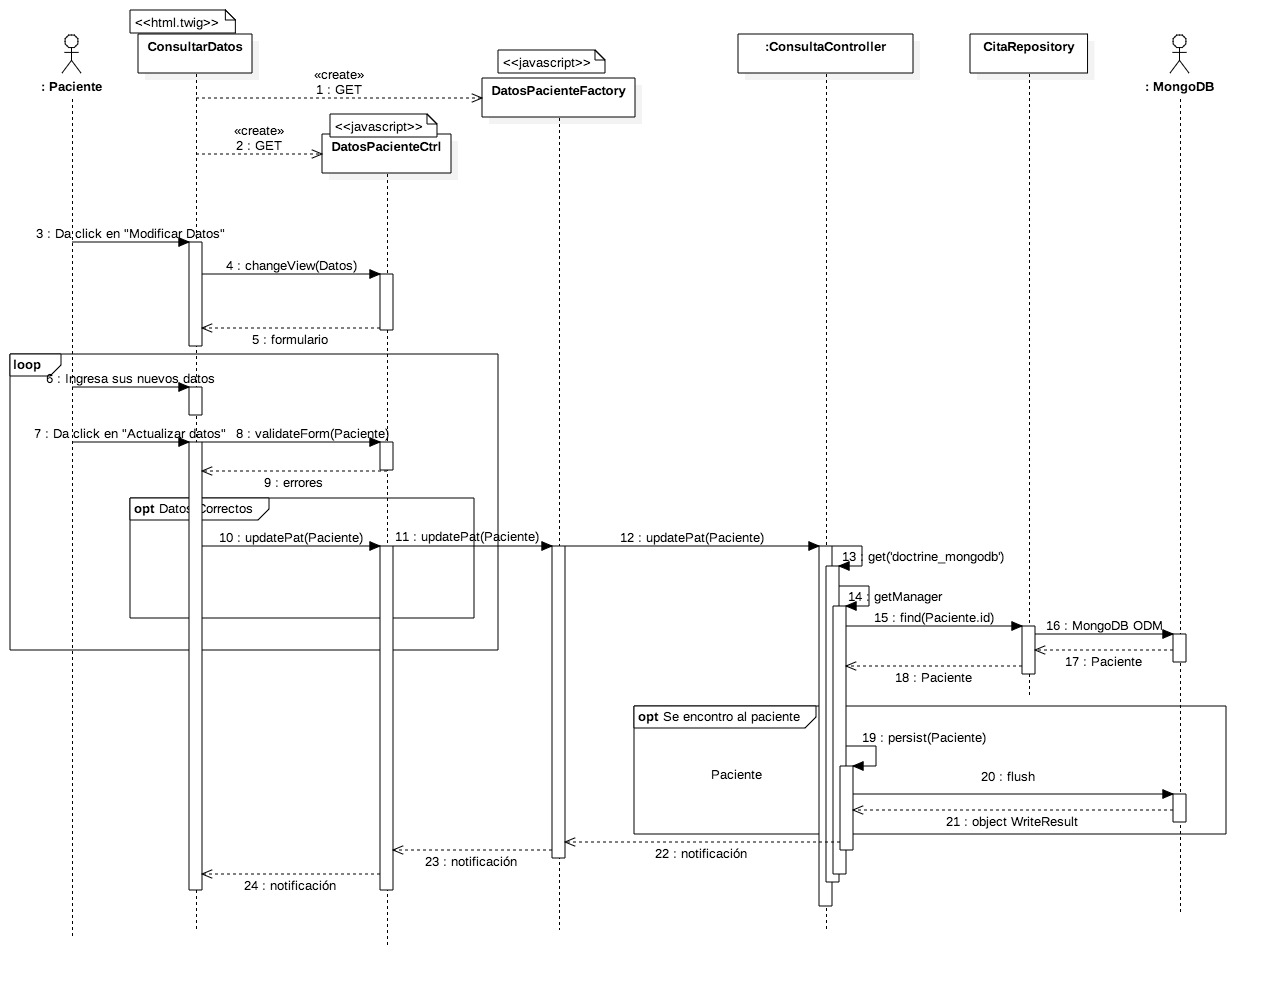
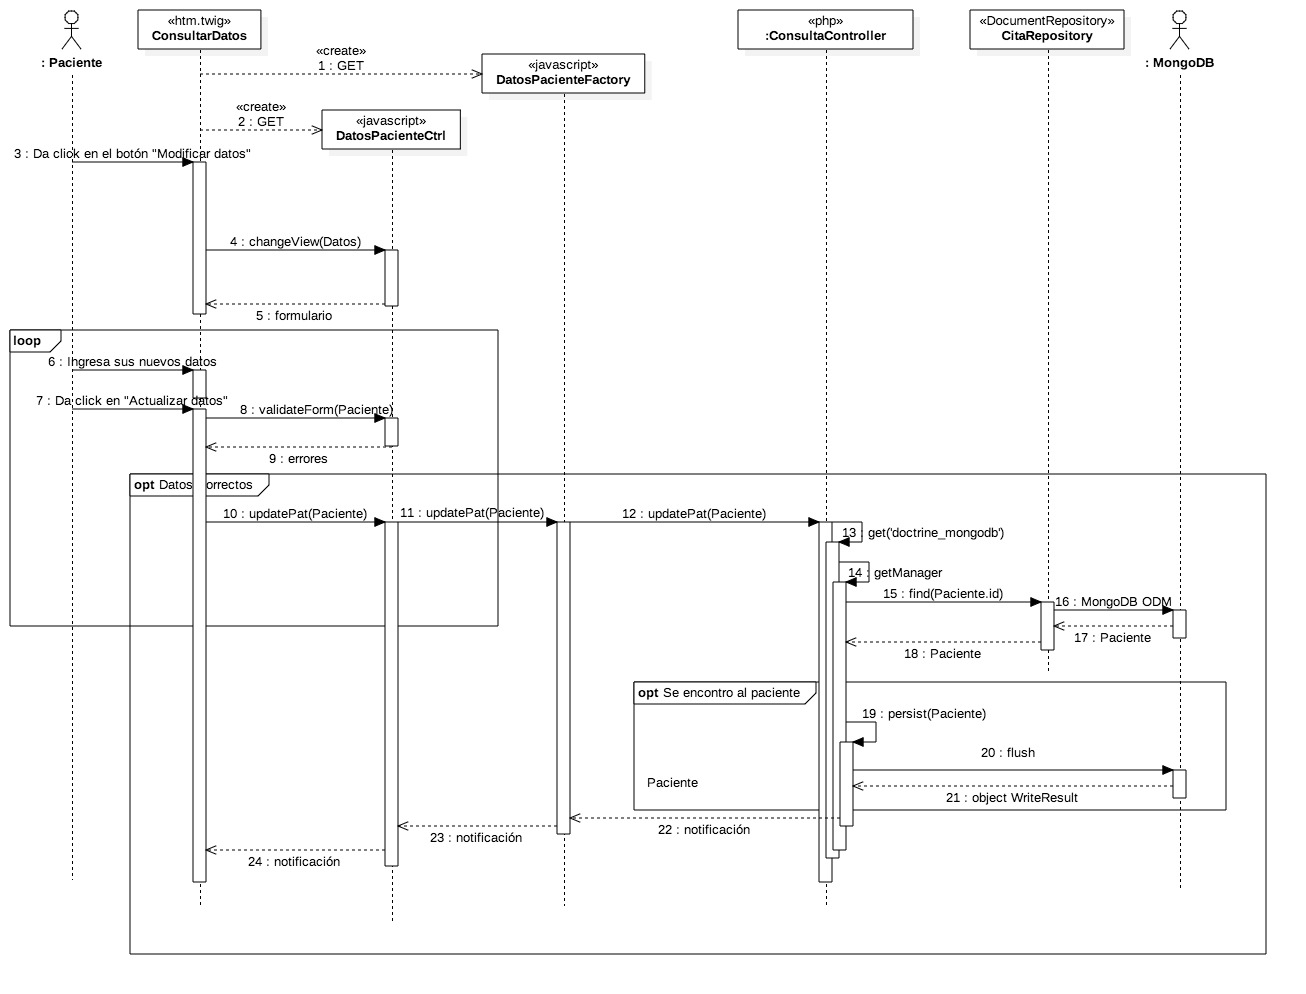
Se corrigen diagramas de secuencia y codigo para que coincidan

diff --git a/web/js/app/paciente/cita/services/factories.js b/web/js/app/paciente/cita/services/factories.js
@@ -1,28 +1,9 @@
 app.
     /**
-     * Factory para tener el resource de los productos
+     * Factory para tener el resource de los citas
      * @param {type} $resource
      * @returns {undefined}
      */
-        factory('AgendarPacienteFactory', function($resource){
-        var urlCitas  = Routing.generate('api_get_paciente_citas');
-        var urlDoc  = decodeURIComponent(Routing.generate('api_get_medico_nombre', { fecha : ":fecha" , consultorio : ":consultorio"}));
-
-        return $resource(urlCitas, null, {
-            getCitas  : {
-                method  : 'GET',
-                isArray : true,
-                url     : urlCitas
-            },
-            getDoctor  : {
-                method  : 'GET',
-                isArray : true,
-                params  : { fecha : '@fecha', consultorio : '@consultorio' },
-                url     : urlDoc
-            }
-
-        });
-    }).
     factory('AgendarPacienteFactory', function($resource){
         var urlCitas  = Routing.generate('api_get_paciente_citas');
         var urlDoc  = decodeURIComponent(Routing.generate('api_get_medico_nombre', { fecha : ":fecha" , consultorio : ":consultorio"}));

diff --git a/web/js/app/paciente/cita/controllers/consultar.js b/web/js/app/paciente/cita/controllers/consultar.js
@@ -9,9 +9,9 @@ app.
      */
     controller('ConsultarCitaCtrl', function($scope,$log, $http, $modal, $filter, $rootScope, ConsultarCitaFactory) {
 
-        $scope.cancelDate = function( cita ){
+        $scope.cancelDate = function( idCita ){
             //alert(cita);
-            ConsultarCitaFactory.cancelDate({ id: cita }, function(result){
+            ConsultarCitaFactory.cancelDate({ id: idCita }, function(result){
                 alert(result.mensaje);
                 location.reload();
             });

diff --git a/documento_disenio/lineamientoDisenio/lineamientoDisenio.tex b/documento_disenio/lineamientoDisenio/lineamientoDisenio.tex
@@ -45,14 +45,14 @@
 
 				\begin{figure}[htbp!]
 		\centering
-			\includegraphics[width=1\textwidth]{images/ejemploCodigo1}
+			\includegraphics[width=.8\textwidth]{images/ejemploCodigo1}
 		\caption{Ejemplo de código 1}
 	\end{figure}
 				
 
 				\begin{figure}[htbp!]
 		\centering
-			\includegraphics[width=1\textwidth]{images/ejemploCodigo2}
+			\includegraphics[width=.8\textwidth]{images/ejemploCodigo2}
 		\caption{Ejemplo de código 2}
 	\end{figure}
 				
@@ -61,28 +61,28 @@
 \begin{itemize}
 \item Definidos en src/AppBundle/Controller
 
-\item Se deben crear por actor dentro de una carpeta Actor/ y el nombre del archivo debe tener la terminación Controller
+\item Se deben crear por actor dentro de una carpeta Actor/ y/o Modulo/ y el nombre del archivo debe tener la terminación Controller
 
 \end{itemize}
 \subsection{Documentos}
 \begin{itemize}
 \item Definidos en src/AppBundle/Document
 
-\item Se deben crear por actor dentro de una carpeta Actor/ 
+\item Se deben crear por actor y/o módulo dentro de una carpeta Actor/ o  Modulo/
 
 \end{itemize}
 \subsection{Repositorios}
 \begin{itemize}
 \item Definidos en src/AppBundle/Repository
 
-\item Se deben crear por actor dentro de una carpeta Actor/ y el nombre del archivo debe tener la terminación Repository
+\item Se deben crear por actor dentro de una carpeta Actor/ y/o Modulo/ y el nombre del archivo debe tener la terminación Repository
 
 \end{itemize}
 \subsection{Formularios}
 \begin{itemize}
 \item Definidos en src/AppBundle/Form/Type/
 
-\item Se deben crear por actor dentro de una carpeta Actor/ y el nombre del archivo debe tener la terminación Type
+\item Se deben crear por actor y/o módulo dentro de una carpeta Actor/ ó Modulo/ y el nombre del archivo debe tener la terminación Type
 
 \end{itemize}
 
@@ -108,13 +108,13 @@ La estructura de las carpetas para almacenar el código angular por módulo debe
 
 	\item Por la estructura de la carpeta, no es necesario que los nombres de los archivos tengan terminaciones Controller, Filter, Directive o Factory.
 
-	\item El nombre de los factories debe de declararse en inglés, ser lo más corto posible y usar UperCamelCase.
+	\item El nombre de los factories debe ser lo más corto posible y usar UperCamelCase.
 
 	\item Bajo ninguna circunstancia se usarán selectores de jQuery dentro de controles o providers.
 
 	\item Si se requieren utilizar funciones de jQuery se deberá crear un directiva.
 
-	\item Los nombres de las directivas deben de declararse en inglés, ser lo más corto posible y usar lowerCamelCase.
+	\item Los nombres de las directivas deben ser lo más corto posible y usar lowerCamelCase.
 
 	\item Cada control, directiva, servicio y filtro, así como las funciones se deben de comentar, indicando el uso de la función y los parámetros que necesita, en caso de ser necesarios.
 
@@ -125,9 +125,9 @@ La estructura de las carpetas para almacenar el código angular por módulo debe
 \begin{itemize}
 \item Toda variable debe de ser declarada y de ser necesario inicializada, seguir la convención para javascript var myVar; y var myVar=1;
 
-\item Los nombres de las variables deben de declararse en inglés, ser lo más corto posible, ser lo más descriptivas posibles y usar lowerCamelCase.
+\item Los nombres de las variables deben ser lo más corto posible, ser lo más descriptivas posibles y usar lowerCamelCase.
 
-\item Todo el código javascript debe estar separado en un archivo dentro de la carpeta web/js
+\item Todo el código javascript debe estar separado en un archivo por modulo dentro de la carpeta web/js
 
 \end{itemize}
 

diff --git a/documento_disenio/Introduccion/Introduccion.tex b/documento_disenio/Introduccion/Introduccion.tex
@@ -1,4 +1,5 @@
 Este documento presenta el diseño del proyecto del sistema para una clínica, con desarrollo en el modelo iterativo, en la iteración 4. El proyecto está pensado para una empresa con las siguientes características:
+La empresa cuenta con una clinica con 12 consultorios fijos, medicos, enfermeras, cajeros y gerentes, los cuales seran los usuarios del sistema. Así mismo el sistema esta pensado para una clinica que tenga una farmacia, por lo que debe contar con un control de ventas , control de inventario y pago de consultas. El sistema cuenta con un módulo para agendar citas y llevar un control de expediente medico.
 
 El proyecto lo realiza el equipo Black::Sheep() para la materia de Análisis y Diseño Orientado a Objetos (ADOO) en la Escuela Superior de Cómputo del Instituto Politécnico Nacional con fecha 7 de mayo del 2016
 
@@ -34,7 +35,7 @@ Lo que se mostrará en cada capítulo es lo siguiente:
 \item \textbf{Expediente (clínico): }Documento que describe la situación y antecedentes médicos de un paciente.
 \end{itemize}
 %--------------------------------------------------
-\section{Referencias}
+%\section{Referencias}
 %\begin{thebibliography}{9}
 %\bibitem{nom}
  % Norma Oficial Mexicana,

diff --git a/src/AppBundle/Form/Type/Paciente/CitaType.php b/src/AppBundle/Form/Type/Paciente/CitaType.php
@@ -54,7 +54,7 @@ class CitaType extends AbstractType
                 'label' => 'Fecha',
                 'read_only' => true,
                 'required' => true ) )
-            ->add( 'Guardar', 'submit', array(
+            ->add( 'Agendar cita', 'submit', array(
                 'attr' => array(
                     'class' => 'btn btn-primary pull-right',
                     'ng-disabled' => '!cita.fecha || !cita.consultorio || !cita.medico',

diff --git a/src/AppBundle/Controller/Api/Medico/MedicoController.php b/src/AppBundle/Controller/Api/Medico/MedicoController.php
@@ -17,8 +17,8 @@ use Symfony\Component\HttpFoundation\Request;
 class MedicoController extends FOSRestController implements ClassResourceInterface{
 
     /**
-     * Acción para generar los datos de productos
-     * El arreglo generado alimenta la tabla "Productos"
+     * Acción para generar los datos del obtener medico
+     * El arreglo generado alimenta la tabla "Medicos"
      *
      * @return array
      * @Rest\View()

diff --git a/src/AppBundle/Controller/Api/Expediente/ExpedienteController.php b/src/AppBundle/Controller/Api/Expediente/ExpedienteController.php
@@ -25,8 +25,7 @@ use Symfony\Component\Validator\Constraints\DateTime;
 
 class ExpedienteController extends FOSRestController implements ClassResourceInterface{
     /**
-     * Acción para generar los datos de los pacientes
-     * El arreglo generado alimenta la tabla "Pacientes"
+     * Acción para generar los generar un expediente
      *
      * @param Request $request
      * @return array

diff --git a/src/AppBundle/Controller/Paciente/CitaController.php b/src/AppBundle/Controller/Paciente/CitaController.php
@@ -16,7 +16,7 @@ class CitaController extends Controller
      * @param Request $request
      * @return \Symfony\Component\HttpFoundation\RedirectResponse|\Symfony\Component\HttpFoundation\Response
      */
-    public function agendarAction(Request $request)
+    public function scheduleAction(Request $request)
     {
         $cita = new PacienteCitas();
 

diff --git a/src/AppBundle/Controller/Api/Enfermera/EnfermeraController.php b/src/AppBundle/Controller/Api/Enfermera/EnfermeraController.php
@@ -27,6 +27,10 @@ class EnfermeraController extends FOSRestController implements ClassResourceInte
             ->getAllUsers('enfermera');
     }
 
+    /**
+     * Accion para obtener las citas del paciente
+     * @return array
+     */
     public function cgetCitasAction()
     {
        $usuarios =   $this->get( 'doctrine_mongodb' )->getManager()

diff --git a/src/AppBundle/Controller/Api/Paciente/PacienteController.php b/src/AppBundle/Controller/Api/Paciente/PacienteController.php
@@ -40,8 +40,7 @@ class PacienteController extends FOSRestController implements ClassResourceInter
     }
 
     /**
-     * Acción para generar los datos de las citas
-     * El arreglo generado sirve para deshabilitar las citas que ya esten ocupadas
+     * Acción para eliminar una cita
      *
      * @return array
      * @Rest\View()
